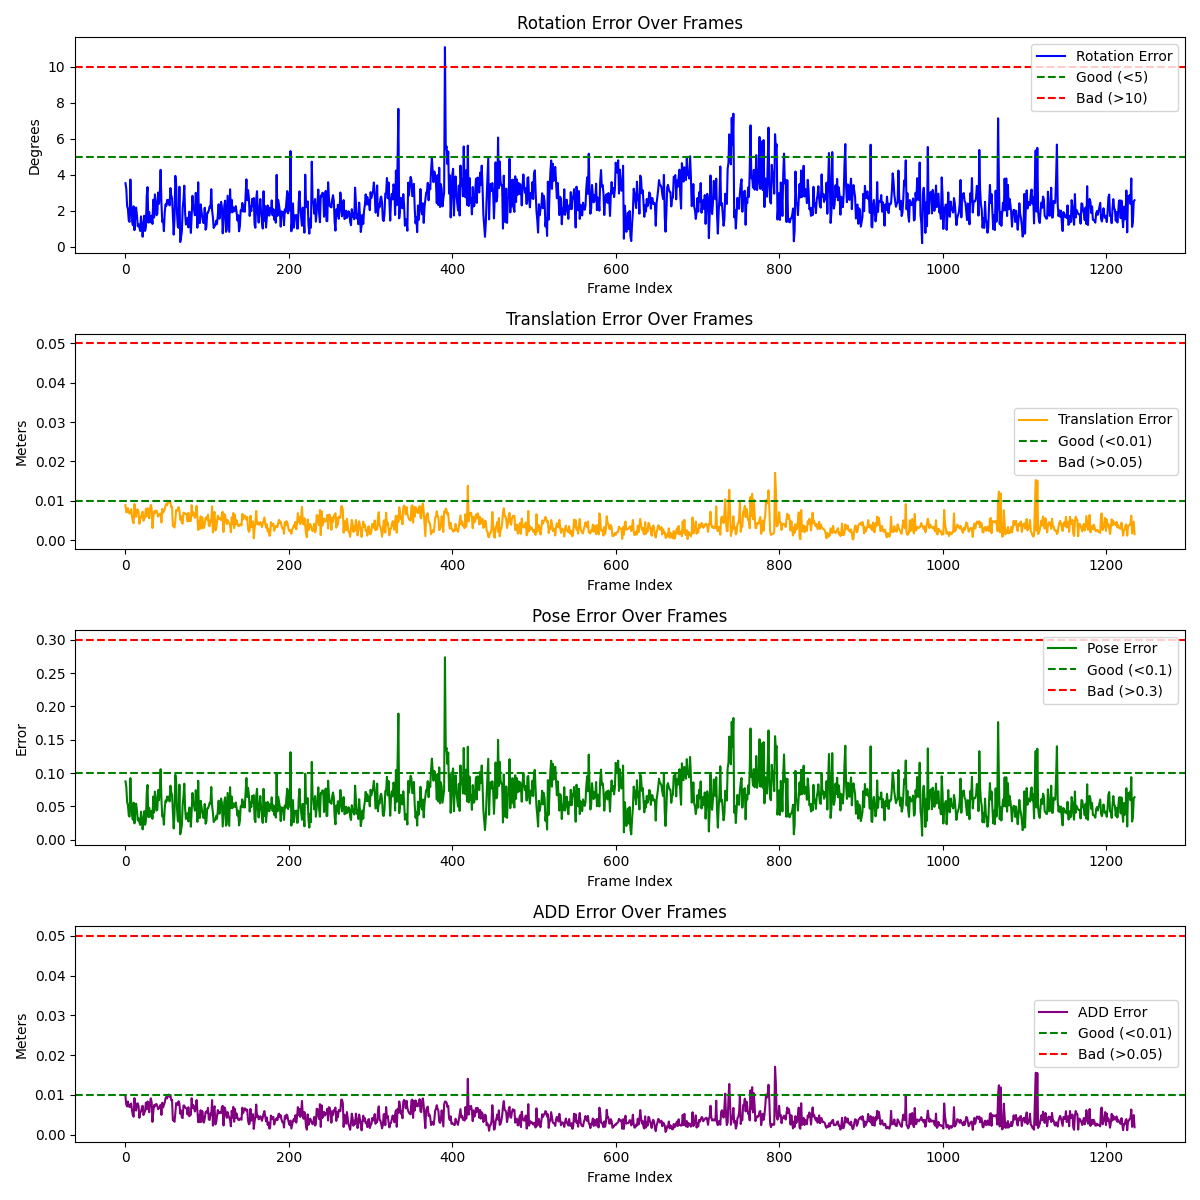
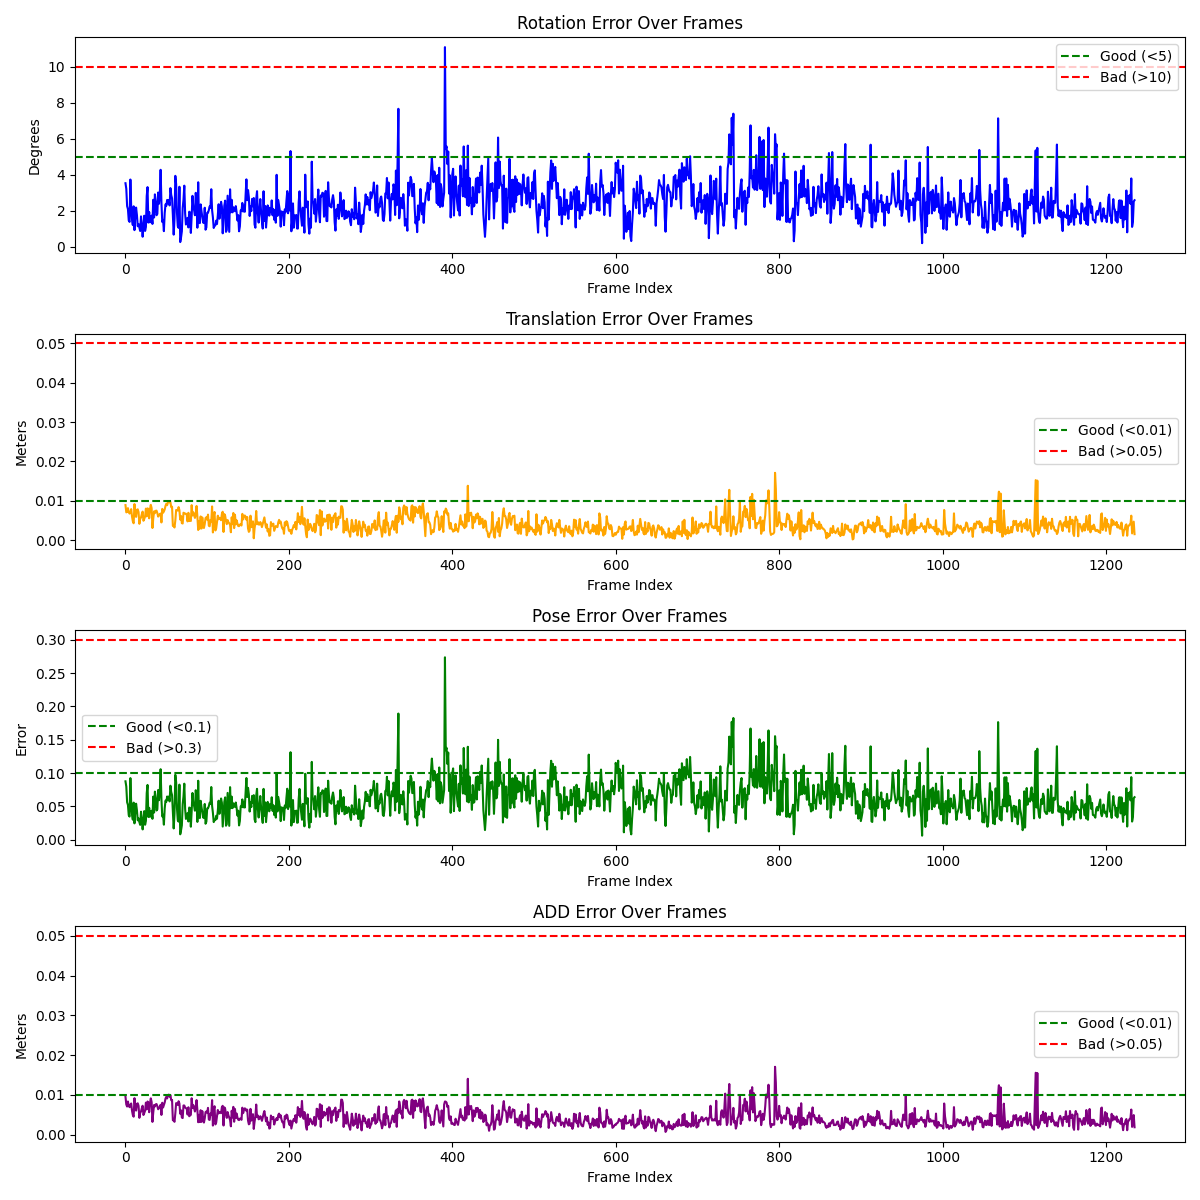
modular pipeline with config.py

diff --git a/Pose_Evaluation/visualizer.py b/Pose_Evaluation/visualizer.py
@@ -2,10 +2,10 @@ import matplotlib.pyplot as plt
 import numpy as np
 import open3d as o3d
 import yaml
-
-from PIL import Image, ImageDraw, ImageFont
-import os
 import imageio
+import config as cfg
+from PIL import Image, ImageDraw, ImageFont
+
 
 from open3d.visualization import rendering
 
@@ -17,45 +17,44 @@ class TransformationVisualizer:
         self.add_errors = add_errors
         self.frames = np.arange(len(rotation_errors))
 
-    def plot_outliers(self):
-        rot_th, trans_th, pose_th, add_th = 10, 0.05, 0.1, 0.05
+    def plot_outliers(self, output_path):
+        thresholds = cfg.OUTLIER_THRESHOLDS
         fig, axs = plt.subplots(4, 1, figsize=(12, 12))
 
-        self._scatter_plot(axs[0], self.rotation_errors, rot_th, "Rotation Error Outliers", "Degrees", "blue")
-        self._scatter_plot(axs[1], self.translation_errors, trans_th, "Translation Error Outliers", "Meters", "orange")
-        self._scatter_plot(axs[2], self.pose_errors, pose_th, "Pose Error Outliers", "Error", "green")
-        self._scatter_plot(axs[3], self.add_errors, add_th, "ADD Error Outliers", "Meters", "purple")
+        for i, (title, ylabel, color, _) in enumerate(cfg.LABELS):
+            self._scatter_plot(axs[i], getattr(self, f"{title.lower().split()[0]}_errors"),
+                               thresholds[i], f"{title} Outliers", ylabel, color)
 
         plt.tight_layout()
-        plt.savefig("plots/error_outliers.png")
+        plt.savefig(output_path)
         plt.close()
 
-    def plot_trends(self):
+    def plot_trends(self, output_path):
         fig, axs = plt.subplots(4, 1, figsize=(12, 12))
 
-        self._trend_plot(axs[0], self.rotation_errors, [5, 10], "Rotation Error Over Frames", "Degrees", "blue")
-        self._trend_plot(axs[1], self.translation_errors, [0.01, 0.05], "Translation Error Over Frames", "Meters", "orange")
-        self._trend_plot(axs[2], self.pose_errors, [0.1, 0.3], "Pose Error Over Frames", "Error", "green")
-        self._trend_plot(axs[3], self.add_errors, [0.01, 0.05], "ADD Error Over Frames", "Meters", "purple")
+        for i, (title, ylabel, color, key) in enumerate(cfg.LABELS):
+            self._trend_plot(axs[i], getattr(self, f"{key}_errors"),
+                             cfg.TREND_THRESHOLDS[key],
+                             f"{title} Over Frames", ylabel, color)
 
         plt.tight_layout()
-        plt.savefig("plots/error_trends.png")
+        plt.savefig(output_path)
         plt.close()
 
-    def plot_distributions(self):
+    def plot_distributions(self, output_path):
         fig, axs = plt.subplots(4, 1, figsize=(12, 12))
 
-        self._histogram(axs[0], self.rotation_errors, [5, 10], "Rotation Error Distribution", "Degrees", "blue")
-        self._histogram(axs[1], self.translation_errors, [0.01, 0.05], "Translation Error Distribution", "Meters", "orange")
-        self._histogram(axs[2], self.pose_errors, [0.1, 0.3], "Pose Error Distribution", "Error", "green")
-        self._histogram(axs[3], self.add_errors, [0.01, 0.05], "ADD Error Distribution", "Meters", "purple")
+        for i, (title, ylabel, color, key) in enumerate(cfg.LABELS):
+            self._histogram(axs[i], getattr(self, f"{key}_errors"),
+                            cfg.TREND_THRESHOLDS[key],
+                            f"{title} Distribution", ylabel, color)
 
         plt.tight_layout()
-        plt.savefig("plots/error_distributions.png")
+        plt.savefig(output_path)
         plt.close()
 
     def _scatter_plot(self, ax, errors, threshold, title, ylabel, color):
-        ax.scatter(self.frames, errors, color=color, alpha=0.5, label=title.replace(" Outliers", ""))
+        ax.scatter(self.frames, errors, color=color, alpha=0.5)
         ax.scatter([i for i in self.frames if errors[i] > threshold],
                    [errors[i] for i in self.frames if errors[i] > threshold],
                    color="red", label=f"Outlier (>{threshold})")
@@ -65,7 +64,7 @@ class TransformationVisualizer:
         ax.legend()
 
     def _trend_plot(self, ax, errors, thresholds, title, ylabel, color):
-        ax.plot(self.frames, errors, label=title.replace(" Over Frames", ""), color=color)
+        ax.plot(self.frames, errors, color=color)
         ax.axhline(thresholds[0], color='green', linestyle='--', label=f'Good (<{thresholds[0]})')
         ax.axhline(thresholds[1], color='red', linestyle='--', label=f'Bad (>{thresholds[1]})')
         ax.set_title(title)
@@ -80,28 +79,6 @@ class TransformationVisualizer:
         ax.set_title(title)
         ax.set_ylabel(ylabel)
         ax.legend()
-
-
-import open3d as o3d
-import numpy as np
-import yaml
-import imageio
-from PIL import Image, ImageDraw, ImageFont
-from open3d.visualization import rendering
-
-import open3d as o3d
-import numpy as np
-import yaml
-from PIL import Image, ImageDraw, ImageFont
-import imageio
-from open3d.visualization import rendering
-
-from PIL import Image, ImageDraw, ImageFont
-import open3d as o3d
-import numpy as np
-import yaml
-import imageio
-from open3d.visualization import rendering
 
 class AlignmentVisualizer:
     def __init__(self, gt_path, pred_path, ply_path, rotation_angles=None):

diff --git a/Pose_Evaluation/main.py b/Pose_Evaluation/main.py
@@ -2,75 +2,54 @@ import numpy as np
 from evaluation import TransformationEvaluator
 from visualizer import TransformationVisualizer, AlignmentVisualizer
 from formatter import YAMLFormatter
+import config as cfg
 
 if __name__ == "__main__":
     formatter = YAMLFormatter()
 
-    # Reformat input files
-    formatter.reformat_predictions("data/linemod_res.yml", "reformatted/res_reformatted.yml")
-    formatter.reformat_ground_truth("data/gt.yml", "reformatted/gt_reformatted.yml")
+    formatter.reformat_predictions("data/linemod_res.yml", cfg.PRED_YAML)
+    formatter.reformat_ground_truth("data/gt.yml", cfg.GT_YAML)
 
-    # Evaluate errors
-    evaluator = TransformationEvaluator(
-        "reformatted/gt_reformatted.yml",
-        "reformatted/res_reformatted.yml",
-        "data/obj_01.ply"
-    )
+    evaluator = TransformationEvaluator(cfg.GT_YAML, cfg.PRED_YAML, cfg.PLY_PATH)
     errors = evaluator.evaluate()
 
-    # Print average metrics
     for metric, value in {k: np.mean(v) for k, v in errors.items()}.items():
         print(f"{metric}: {value:.4f}")
 
-    # Set frame index
-    frame_idx = 0
+    visualizer_3d = AlignmentVisualizer(cfg.GT_YAML, cfg.PRED_YAML, cfg.PLY_PATH, cfg.ROTATION_ANGLES)
 
-    # Initialize visualizer
-    visualizer_3d = AlignmentVisualizer(
-        "reformatted/gt_reformatted.yml",
-        "reformatted/res_reformatted.yml",
-        "data/obj_01.ply",
-        rotation_angles=(90, -90, 0)  # (rx, ry, rz) in degrees
-    )
-
-    visualizer_3d.show_interactive(frame_index=frame_idx)
-
-    # Save zoomed view
     visualizer_3d.save_alignment_image(
-        output_path=f"plots/frame_{frame_idx}_zoomed.png",
-        frame_index=frame_idx,
-        zoom_factor=0.3
+        output_path=cfg.ZOOMED_IMG_PATH,
+        frame_index=cfg.FRAME_IDX,
+        zoom_factor=cfg.ZOOMED_ZOOM_FACTOR
     )
 
-    # Save full view
     visualizer_3d.save_alignment_image(
-        output_path=f"plots/frame_{frame_idx}_full.png",
-        frame_index=frame_idx,
-        zoom_factor=0.4
+        output_path=cfg.FULL_IMG_PATH,
+        frame_index=cfg.FRAME_IDX,
+        zoom_factor=cfg.FULL_ZOOM_FACTOR
     )
 
-    # Annotate the zoomed view
     visualizer_3d.save_annotated_image(
-        base_img_path=f"plots/frame_{frame_idx}_zoomed.png",
-        output_path=f"plots/frame_{frame_idx}_annotated.png",
-        frame_index=frame_idx,
+        base_img_path=cfg.ZOOMED_IMG_PATH,
+        output_path=cfg.ANNOTATED_IMG_PATH,
+        frame_index=cfg.FRAME_IDX,
         errors=errors
     )
 
-    # Save orbit GIF
     visualizer_3d.save_orbit_gif(
-        frame_index=frame_idx,
-        output_path="plots/orbit_animation.gif",
-        zoom_factor=0.5
+        frame_index=cfg.FRAME_IDX,
+        output_path=cfg.GIF_PATH,
+        zoom_factor=cfg.GIF_ZOOM_FACTOR
     )
 
-    # Plot error metrics
     visualizer = TransformationVisualizer(
         errors["Rotation Error (deg)"],
         errors["Translation Error (m)"],
         errors["Pose Error (Frobenius norm)"],
         errors["ADD (m)"]
     )
-    visualizer.plot_outliers()
-    visualizer.plot_trends()
-    visualizer.plot_distributions()
+
+    visualizer.plot_outliers(cfg.OUTLIER_PLOT_PATH)
+    visualizer.plot_trends(cfg.TREND_PLOT_PATH)
+    visualizer.plot_distributions(cfg.DISTRIBUTION_PLOT_PATH)

diff --git a/Pose_Evaluation/config.py b/Pose_Evaluation/config.py
@@ -1,0 +1,44 @@
+# config.py
+
+# Input data paths
+GT_YAML = "reformatted/gt_reformatted.yml"
+PRED_YAML = "reformatted/res_reformatted.yml"
+PLY_PATH = "data/obj_01.ply"
+
+# Frame selection
+FRAME_IDX = 0
+
+# Zoom factors
+ZOOMED_ZOOM_FACTOR = 0.3
+FULL_ZOOM_FACTOR = 0.4
+GIF_ZOOM_FACTOR = 0.5
+
+ROTATION_ANGLES = [90, -90, 0]
+
+# Output paths
+ZOOMED_IMG_PATH = f"plots/frame_{FRAME_IDX}_zoomed.png"
+FULL_IMG_PATH = f"plots/frame_{FRAME_IDX}_full.png"
+ANNOTATED_IMG_PATH = f"plots/frame_{FRAME_IDX}_annotated.png"
+GIF_PATH = "plots/orbit_animation.gif"
+OUTLIER_PLOT_PATH = "plots/error_outliers.png"
+TREND_PLOT_PATH = "plots/error_trends.png"
+DISTRIBUTION_PLOT_PATH = "plots/error_distributions.png"
+
+# Outlier thresholds (rotation, translation, pose, add)
+OUTLIER_THRESHOLDS = (10, 0.05, 0.1, 0.05)
+
+# Trend/Histogram thresholds
+TREND_THRESHOLDS = {
+    "rotation": [5, 10],
+    "translation": [0.01, 0.05],
+    "pose": [0.1, 0.3],
+    "add": [0.01, 0.05],
+}
+
+# Labels and colors
+LABELS = [
+    ("Rotation Error", "Degrees", "blue", "rotation"),
+    ("Translation Error", "Meters", "orange", "translation"),
+    ("Pose Error", "Error", "green", "pose"),
+    ("ADD Error", "Meters", "purple", "add"),
+]
